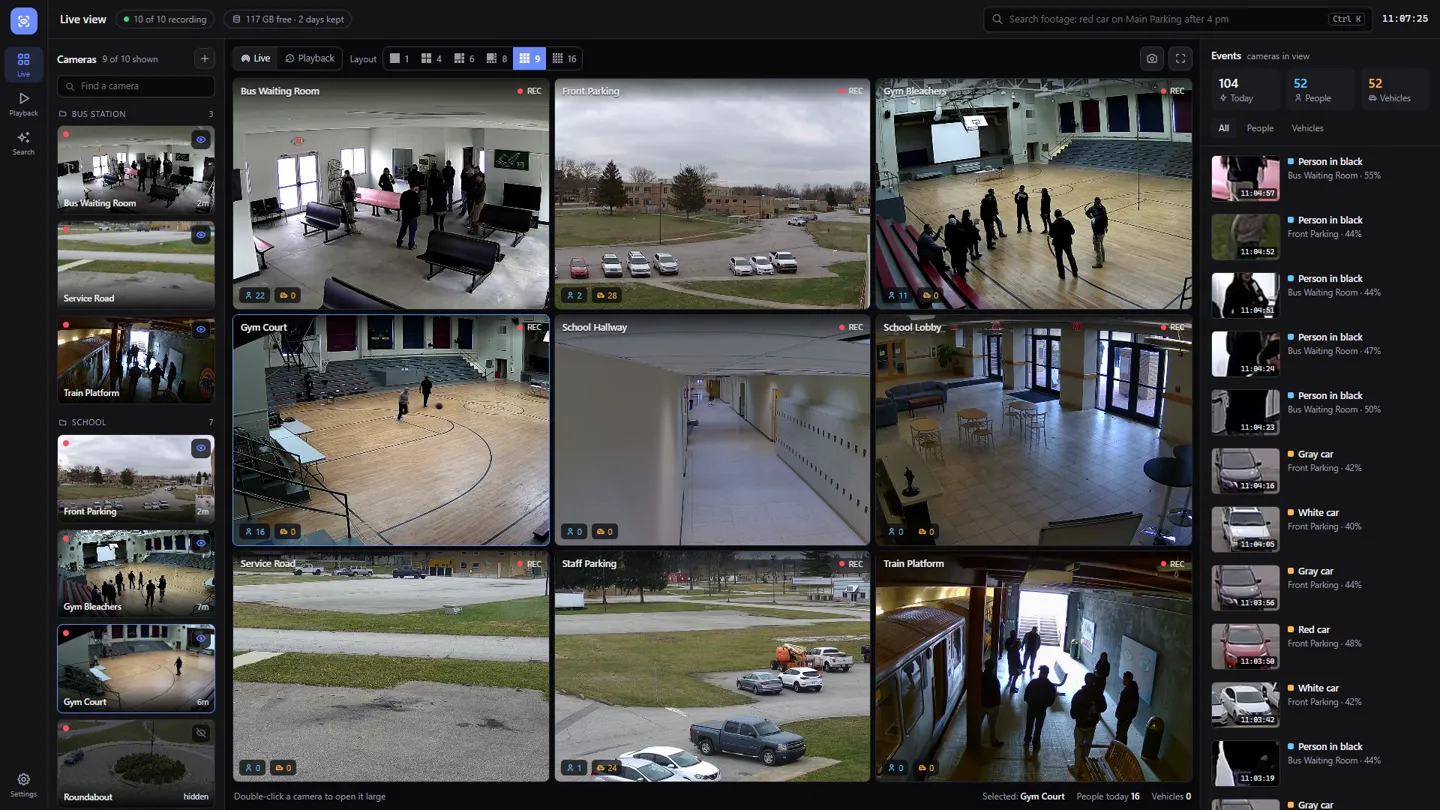
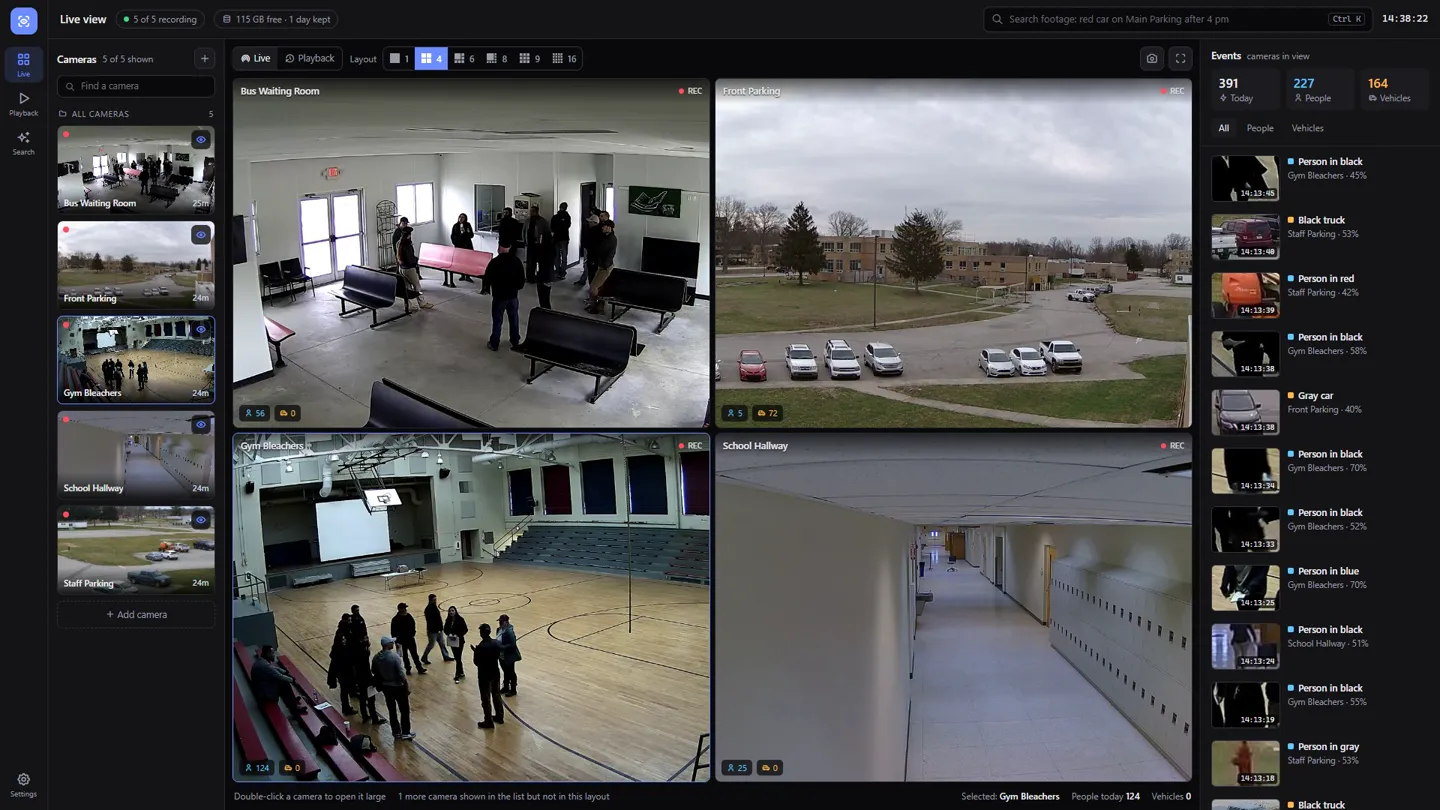
Update AI Video Investigator screenshots and example search

diff --git a/projects.html b/projects.html
@@ -109,7 +109,7 @@
         <div>
           <span class="tag">C++ · computer vision · local AI</span>
           <h3>Ask your cameras what happened.</h3>
-          <p>Type "white car at Staff Parking" or "people playing basketball" and jump to the moment. Watch live, scrub a 24-hour timeline and cut the clip in a second. No cloud: footage, detection and search stay on the PC.</p>
+          <p>Type "white car at Staff Parking" or "people sitting on a bench" and jump to the moment. Watch live, scrub a 24-hour timeline and cut the clip in a second. No cloud: footage, detection and search stay on the PC.</p>
           <ul class="feat">
             <li>YOLOv8 detection on ONNX Runtime, tracked so each object is one event</li>
             <li>Plain-English search, with an optional local language model (llama.cpp)</li>
@@ -125,14 +125,14 @@
         <div>
           <div class="browser">
             <div class="bar"><i></i><i></i><i></i><span class="url mono">127.0.0.1 · live view</span></div>
-            <img src="assets/aivideoinvestigator/live.webp" alt="AI Video Investigator live view: a nine-camera wall with a camera list and today's detections" width="1440" height="810" loading="lazy" />
+            <img src="assets/aivideoinvestigator/live.webp" alt="AI Video Investigator live view: a four-camera wall with a camera list and today's detections" width="1440" height="810" loading="lazy" />
           </div>
         </div>
       </div>
 
       <div class="gallery">
         <figure><img src="assets/aivideoinvestigator/search.webp" alt="Search results for white car at Staff Parking" loading="lazy" /><figcaption>Plain-English search</figcaption></figure>
-        <figure><img src="assets/aivideoinvestigator/visual.webp" alt="Visual search results for people playing basketball" loading="lazy" /><figcaption>Visual search with CLIP</figcaption></figure>
+        <figure><img src="assets/aivideoinvestigator/visual.webp" alt="Visual search results for people sitting on a bench" loading="lazy" /><figcaption>Visual search with CLIP</figcaption></figure>
         <figure><img src="assets/aivideoinvestigator/playback.webp" alt="Playback with a 24-hour timeline of people, vehicles and motion" loading="lazy" /><figcaption>Timeline and clip export</figcaption></figure>
       </div>
       <p class="sub" style="font-size:.85rem;margin-top:14px">Demo footage: MEVA dataset by Kitware Inc. and IARPA (mevadata.org), CC BY 4.0.</p>
